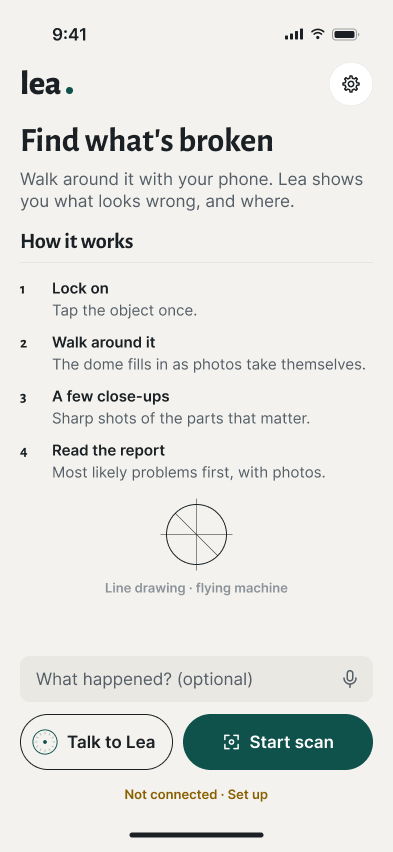
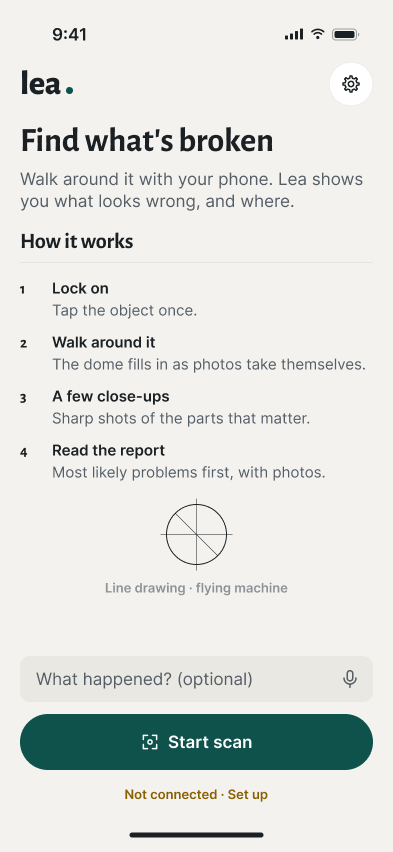
DESIGN.md 3.2: every screen's words checked against main
Review 5 of the impeccable critique priorities, read against main's code:

- P0: scan rows titled with the person's own words; main's verdict words;
  no Talk to Lea before pairing; masked pairing code; the backend's own
  safety notes, limits and couldn't-check wording; "In plain words" instead
  of a caption Lea never speaks; 09 shows one coherent moment.
- P1: the report's one next thing (Continue scanning) pinned beside Ask
  Lea; the top finding as the headline; the scan fills the stage.
- P1: no "Next step", "This looks like" or "Problem 1 of 3" eyebrows;
  limits as a footnote; one Fix it offer. Report 3143 -> 2955 pt.
- P2: photo counts, part names, problem counts and markers agree.

Figma snapshots re-exported for 00, 01, 01b, 03, 07, 08 and 09.

Changed region(s): [[0.0305, 0.8239, 0.855, 0.9155]]

diff --git a/ios/RepairOS/Design/DESIGN.md b/ios/RepairOS/Design/DESIGN.md
@@ -1,6 +1,6 @@
 # LEA design: the inspector's codex
 
-Draft 3.1, 2026-10-25, after review 4: an impeccable critique and polish (§13). The direction for the iOS app, drawn from the moodboard and written so the
+Draft 3.2, 2026-10-25, after review 5: every screen's words checked against `main` (§13). The direction for the iOS app, drawn from the moodboard and written so the
 Figma prototypes and the next `Theme.swift` change can be built from it without guessing. Reference numbers (No. 01-30)
 point at the [moodboard](https://claude.ai/artifact/NeND4dq9nJpS9FyS1QkpzL) (private until shared). Product truth:
 [PRODUCT.md](PRODUCT.md). Tokens in code: [Theme.swift](Theme.swift); capture wiring: [INTEGRATION.md](INTEGRATION.md).
@@ -38,7 +38,8 @@ The look comes from line, type and annotation. It never comes from texture.
    Nothing else is that green: never a status, never decoration.
 8. **Colour is never the only cue.** Every tone comes with an icon and a word; over the camera, a shape.
 9. **Lea is there.** Her mark appears wherever she listens or speaks, her words are captions rather than chat
-   bubbles, and the report keeps what she said when it landed.
+   bubbles, and on the report she is one hold away (Ask Lea). Only words she says go beside her mark: the report's
+   written summary is "In plain words", not a caption.
 
 ## 3. Colour
 
@@ -66,7 +67,7 @@ on Machado-simulated colours).
 
 | Tone | Light | Dark | Means | Contrast light / dark | On its own tint |
 |---|---|---|---|---|---|
-| `good` leaf | `#3A7536` | `#B5D58A` | Verdict "No visible problems", dome done | 5.0 / 10.1 | 4.9 / 7.0 |
+| `good` leaf | `#3A7536` | `#B5D58A` | Verdict "No problems seen", dome done | 5.0 / 10.1 | 4.9 / 7.0 |
 | `caution` ochre | `#8A5F00` | `#E9B24F` | Severity `functional`, fixable cues | 5.0 / 8.6 | 4.9 / 6.2 |
 | `danger` oxblood / vermilion | `#8E2316` | `#F0785C` | Severity `safety`, blocking cues, failures | 7.8 / 6.0 | 7.4 / 4.7 |
 | `cosmetic` iris | `#4F4697` | `#B2A7EA` | Severity `cosmetic` | 7.1 / 7.6 | 6.8 / 5.6 |
@@ -206,12 +207,16 @@ What the Figma prototypes show. Each screen in light and dark; capture over a ca
 - First run: "Find what's broken", the line from `main` ("Walk around it with your phone. Lea shows you what looks
   wrong, and where.") and the four steps from `main` as a numbered list (lock on, walk around it, a few close-ups, read
   the report). The numbers are real: it is a sequence.
-- Each past scan is one row: crop thumbnail (48 pt, radius 6), object words in SF Pro semibold, date and photo count
-  in `secondary`, and a verdict tag. Rows are separated by hairlines, not boxed one by one.
+- Each past scan is one row: crop thumbnail (48 pt, radius 6), the person's own words as the title in SF Pro
+  semibold ("Scan" when they gave none, as `ScansView` does), date and photo count in `secondary`, and a verdict tag
+  in `main`'s words ("Likely problems found", "No problems seen", "Not enough to call it yet"). A scan with a safety
+  problem among its most likely problems shows "Safety problem" in oxblood instead (a change for the Theme PR). Rows
+  are separated by hairlines, not boxed one by one.
 - Bottom: the talk bar. "What happened? (optional)" with the dictation mic in `secondary`; then "Talk to Lea" (a quiet
   capsule with her mark and her name, which opens the conversation, 7.7) beside Start scan in verdigris. Start scan is
   the wider of the two.
-- Not paired yet: "Not connected · Set up" in ochre under the bar, as on `main`.
+- Not paired yet: no Talk to Lea (she lives on the server, so `main` shows her only once paired), Start scan full
+  width, and "Not connected · Set up" in ochre under it, as on `main`.
 
 ### 7.2 Consent, pairing, settings (No. 08, 29, 30)
 
@@ -220,7 +225,7 @@ Alegreya Sans screen title, grouped rows on `surface`. At most one drawing per s
 - **Consent** says what `main` does, row for row: first, to the lea server; then analysed by Claude and Jev
   (Anthropic and TypeSafe); location and photo details removed; only what you scan. "Agree and continue" in
   verdigris; "Not now" is a text button, not a second capsule.
-- **Pairing**: "Connect to the lea server", the server address and the pairing code (digits in `metric`), Pair in
+- **Pairing**: "Connect to the lea server", the server address and the pairing code (masked as you type: a `SecureField` on `main`), Pair in
   verdigris, Skip in the navigation row. The developer note is labelled "For developers".
 
 ### 7.3 Capture (No. 12-17)
@@ -247,37 +252,47 @@ stage; the Theme PR keeps that and draws the stage's ground as below (7.6).
 
 The object leads: the report opens on the stage, as on `main`, and the sheet rises over it.
 
-- **Stage** (400 pt, `stage`, the same in both modes): Back and the voice toggle in chalk, the scan in true colour on
-  a construction-circle ground, and a `Marker` on each problem. Tapping a marker scrolls to its card.
+- **Stage** (400 pt, `stage`, the same in both modes): Back and the voice toggle in chalk, the scan in true colour
+  filling the stage on a construction-circle ground, and a `Marker` on each of the most likely problems, where it was
+  found (as `StageMarks.pins` on `main`; "Also worth a look" gets no marker). Tapping a marker scrolls to its card.
 - **Sheet** (canvas, 16 pt top corners, overlapping the stage by 16 pt), sections 32 pt apart, in this order:
 
-1. **Verdict.** The verdict in `heroTitle`, the reason in SF Pro (it says how many parts Lea couldn't check), then
-   one meta line: your own words in quotes, the object, the date. No eyebrow above it and no rule under it.
-2. **Safety card.** Oxblood hairline frame, 10 % oxblood wash, oxblood title with the triangle. No side bar.
-3. **What Lea said.** Her mark (speaking) and the plain-words summary she spoke when the report landed, unboxed.
-4. **Most likely problems.** The count is the number of cards shown. Problem cards are specimen labels: the
+1. **Verdict.** The top finding in `heroTitle`, in the backend's words ("Power cable: jacket split near the plug",
+   as `ReportWords.headline` builds it). Then one sentence with the counts `main` puts in its eyebrow ("Two likely
+   problems, one of them a safety problem. Lea couldn't check three spots.") and one meta line: your own words in
+   quotes, the photo count, the date. No eyebrow above it and no rule under it.
+2. **Safety card.** "Before you touch it": oxblood hairline frame, 10 % oxblood wash, oxblood title with the
+   triangle, then every safety note in the backend's own words (`report/safety.py`). No side bar.
+3. **Most likely problems.** The count is the number of cards shown. Problem cards are specimen labels: the
    `Marker` and the outlined severity tag; part name in `cardTitle`; issue in the tone colour; crop on the right
    (radius 6, hairline, true colour); ruled rows for where and evidence; confidence as a plain word at the right.
+4. **The next step.** The step itself is the section title ("Take a closer photo"), then the instruction in SF Pro
+   and the reason in `secondary`. No "Next step" above it (that is an eyebrow, §12) and no button: its action is in
+   the pinned bar.
 5. **What you suspected.** Your words in quotes, then a ruled row: "What Lea found" with its badge (photos agree,
    not seen in the photos, could not check) and the backend's note. Your guess only steered where she looked.
-6. **Next step.** Title in `cardTitle`, instruction in SF Pro, the reason in `secondary`, then the report's one
-   verdigris action: Continue scanning, aimed at the spot.
-7. **Fix it.** The part in `cardTitle`, then one grouped list: offers (title, seller, price as the backend gives it)
-   and the replacement guide. Every word comes from the backend; nothing is invented.
-8. **Cosmetic.** One grouped row per cosmetic finding.
-9. **What Lea couldn't check.** A one-sentence summary, then one grouped list of the dashed rows with their reasons
-   and "Show all".
-10. **What photos can't tell.** No frame; a quiet title and the lines at `.subheadline` in `secondary`.
+6. **In plain words.** The report's summary, unboxed, as on `main`. Not beside Lea's mark: she doesn't say it.
+7. **Fix it.** The part in `cardTitle`, named as in the problem card, then one grouped list: offers (title,
+   seller, price as the backend gives it) and the replacement guide. Every word comes from the backend.
+8. **Also worth a look.** `main`'s name for the other issues and cosmetic findings: one grouped row each, part and
+   issue.
+9. **What Lea couldn't check.** `main`'s summary ("One spot wasn't clear enough and two weren't looked at. They aren't
+   counted as fine."), then one grouped list of the dashed rows with `main`'s short reasons ("Too dark in photo 4",
+   "Not looked at yet") and "Show all".
+10. **What photos can't tell.** The backend's limits as one footnote in `secondary` with an info icon, as on `main`.
 11. **Full report with photos.** A grouped link row.
 
-**Ask Lea** is pinned at the bottom in a canvas toolbar with a hairline: hold to ask about this scan. The answer is
-spoken and captioned.
+**The pinned bar** sits at the bottom in a canvas toolbar with a hairline, and holds the report's one next thing:
+"Ask Lea" (her mark in a quiet capsule; hold to ask about this scan, as on `main`, and it reads "Listening… let go to
+ask" while held) beside Continue scanning in verdigris, aimed at the spot in the next step. It is the same pair as
+Home's Talk to Lea and Start scan. When a report has no next step, the bar holds Ask Lea alone.
 
 ### 7.6 Problem detail and 3D model (No. 02, 21, 22, 26)
 
-- A sheet: the grabber, then a 44 pt row with previous and next problem and Done (verdigris).
-- Header in museum-label order: "Problem 1 of 3", part (`screenTitle`), issue in its tone, then where, confidence
-  ("Medium") and likelihood ("Likely") as words.
+- A sheet: the grabber, then a 44 pt row with previous and next problem, where you are ("1 of 2", counting the most
+  likely problems), and Done (verdigris).
+- Header in museum-label order: part (`screenTitle`), issue in its tone, the outlined severity tag, then where,
+  confidence ("Medium") and likelihood ("Likely") as words. Nothing sits above the part name.
 - The photo crop carries a 1 pt leader line from the defect box to its `Marker` (No. 22). The box itself is a
   1.5 pt tone-coloured corner set, the same shape as the lock brackets. The photo's caption is chalk on a smoke pill,
   as over the camera, because it sits on real evidence.
@@ -289,12 +304,16 @@ spoken and captioned.
 ### 7.7 Talk to Lea (new)
 
 The conversation before a scan (`HomeConversationSheet` on `main`). Title "Lea" and Done. One line: "Tell Lea what it
-is and what's wrong. She'll work out the exact product before you scan." The product brief as a card with ruled rows
-(what it looks like, known issue, sources). Before the label photo is sent, a quiet "Show me the label" button;
-after, a quiet line ("Label photo sent"), because a status is never a button. Start scan in verdigris. Then the
-captions, both sides in ink, the names telling them apart (Lea's in verdigris). When you mention heat, smoke or a
-smell, Lea's first words are the safety step ("If it gets hot, unplug it before you pick it up."). At the bottom, Lea's
-mark at 88 pt with her state in words ("Listening…", `.headline`) and one line of help.
+is and what's wrong. She'll work out the exact product before you scan." The product brief as a card: the product as
+its title (no "This looks like" above it), then ruled rows for the known issue ("Area: why", as `ProductBrief` reads
+it) and the sources by name. Before the label photo is sent, a quiet "Show me the label" button; after, a quiet line
+("Label photo sent"), because a status is never a button. Start scan in verdigris. Then the captions, both sides in
+ink, the names telling them apart (Lea's in verdigris). The frame shows one moment: once the brief is on screen,
+Lea's latest words are the brief as `ProductBrief.spoken` says it, never "Let me look that up". When you mention heat,
+smoke or a smell, Lea's first words are the safety step ("If it gets hot, unplug it before you pick it up."); this
+needs a rule in her voice persona and is not on `main` yet (§10). At the bottom, Lea's mark at 88 pt with her state in
+words ("Listening…", `.headline`) and one line that says what happens next ("Lea answers when you pause.": a tap on
+`main` turns on hands-free, it does not end a turn).
 
 ## 8. Accessibility
 
@@ -328,6 +347,10 @@ tokens, `cautionText` and the report motion from PR #13.
 - New views: `LeaMark` (four states), `Marker` (replaces `StageNumber`), the dashed badge for unknown, a keyline
   stroke helper for camera lines, the draw-on modifier. `NextStepCard`, `UserLeadCard`, `FixItCard` and
   `CouldNotCheckCard` become sections (§5 Boxes).
+- Report: `StageVerdictHeader` drops its eyebrow and says the counts in the sentence (7.5); `StagePlainWords` loses
+  its card; the "Also worth a look" rows and the limits footnote stay as they are; Continue scanning moves from
+  `CouldNotCheckCard` into the pinned bar beside Ask Lea.
+- `ScansView`: the oxblood "Safety problem" tag for a scan whose most likely problems include a safety one.
 - `DesignGallery.swift` previews updated so every token shows in light, dark and over a camera frame.
 
 ## 10. Open questions
@@ -340,6 +363,7 @@ tokens, `cautionText` and the report motion from PR #13.
 | The report stage from PR #13 against 7.5 and 7.6: one pass in the Theme PR | App |
 | Failure screens: pairing failed, upload failed, report failed, Lea unreachable | Design |
 | Capture: an empty dial before lock-on, and Lea's mark over the camera while she talks | Design |
+| Before a scan, Lea leads with "unplug it" when someone mentions heat, smoke or a smell (7.7). Her persona in `backend/repairos/voice/conversation.py` only leads with safety once a report has a safety note: add one rule | Backend |
 | ~~Website: same codex direction, or its own?~~ The same direction: §11 | Decided 2026-10-24 |
 
 ## 11. Website
@@ -517,3 +541,25 @@ apart), then a polish pass. Score 27/40 before the polish (Acceptable).
    the gear redrawn; draft-2 backdrops on the Components page made neutral.
 7. Not done: failure screens (pairing, upload, report), the empty dial before lock-on on 04, and Lea's mark over the
    camera. They are §10 follow-ups.
+
+Review 5, 2026-10-25, the same five priorities again, with every word on screen read against `main`'s code rather
+than against the critique's wording. Review 4 had fixed the headline of each one; this pass fixed what was left.
+
+1. P0, copy that `main` doesn't say. Scan rows were titled with object names ("Kettle base"); `main` titles them
+   with your own words, or "Scan". Verdict tags said "Possible problems" and "No visible problems"; `main` says
+   "Likely problems found" and "No problems seen". Home showed Talk to Lea while not connected; `main` hides it until
+   paired. The pairing code showed as digits; it is a masked field. The safety card, the limits and the couldn't-check
+   rows were our own sentences; they are now the backend's. "Lea said" showed the written summary, which Lea never
+   says; it is "In plain words" again. On 09, Lea was "looking it up" while the brief was already on screen, and the
+   help line said a tap ends your turn; it turns on hands-free.
+2. P1, the report's one next thing. Continue scanning sat at y ≈ 1,860 inside the scroll; it is now in the pinned
+   bar beside Ask Lea, the same pair as on Home. The headline is the top finding, as on `main`, and the scan fills
+   the stage with markers on the two likely problems only.
+3. P1, heading voices and eyebrows. "Next step" above "Take a closer photo" was the example §12 bans: the step is the
+   title now. "This looks like" above the product and "Problem 1 of 3" above the part are gone (the position is in
+   08's navigation row). "What photos can't tell" lost its third heading voice and is a footnote. Fix it shows one
+   offer, not two identical ones. The report is 2,955 pt, down from 3,143.
+4. P1, talk first. Covered by 2 and 3: Lea is the left half of the report's bar, and 09 shows one coherent moment.
+   The unplug line stays, flagged in §10 as a backend rule.
+5. P2, numbers. "Seen twice" against "only one photo", "Power cable" against "Power cord", "Problem 1 of 3" against
+   two likely problems, and a marker on a cosmetic finding `main` doesn't mark: all made to agree.

diff --git a/ios/figma/README.md b/ios/figma/README.md
@@ -1,7 +1,7 @@
 # LEA design: Figma snapshots
 
 Exports of the [Figma file](https://www.figma.com/design/acZpRbLDyuavWtoJIqyj1u/LEA-%E2%80%94-Inspector-s-Codex-%C2%B7-Product-design-framework?m=auto&t=fFachNvR1GBg0FTj-1) on 2026-10-25, for review of
-[DESIGN.md](../RepairOS/Design/DESIGN.md) (draft 3.1, after the impeccable critique and polish). The Figma file is the source of truth; these go stale when it
+[DESIGN.md](../RepairOS/Design/DESIGN.md) (draft 3.2, after review 5: every word checked against `main`). The Figma file is the source of truth; these go stale when it
 changes. Alegreya Sans is the real display face. SF Pro renders blank in exports, so Inter stands in for it, and drawn
 icons stand in for SF Symbols. Photo and 3D slots are empty on purpose: real evidence keeps its true colour.
 
